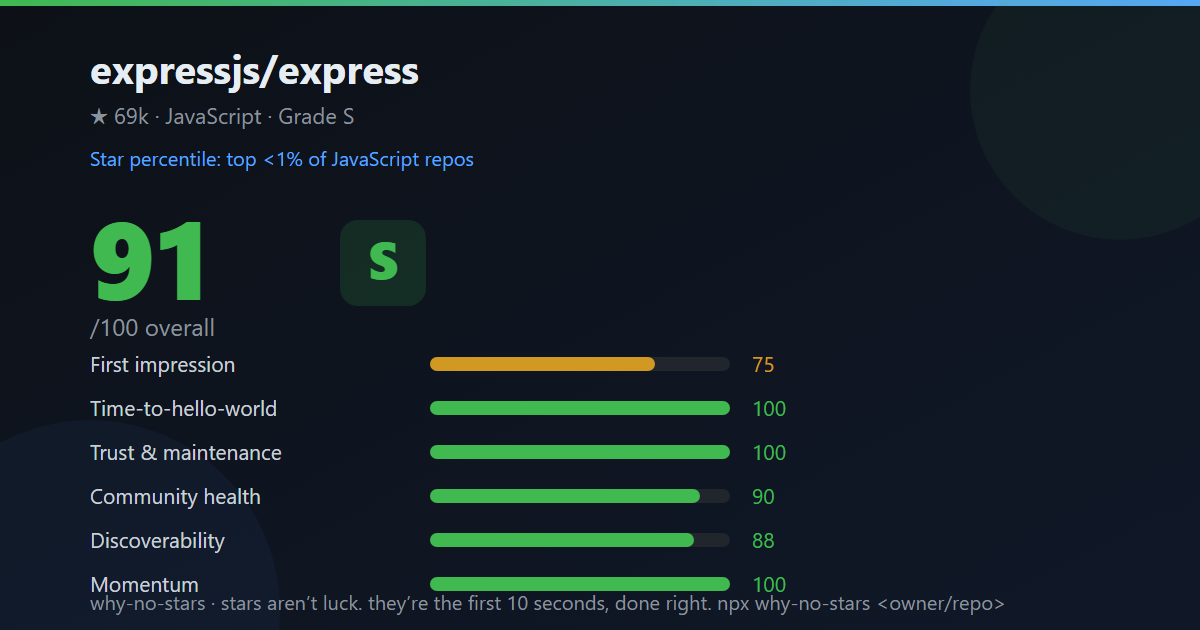
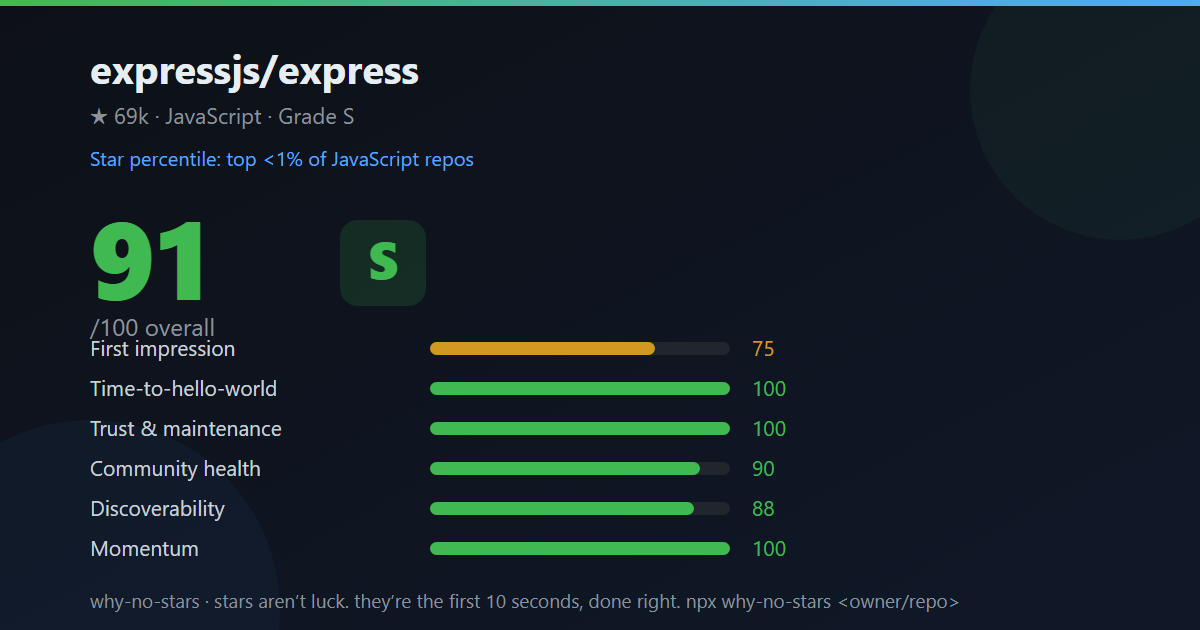
community health files: issue/PR templates, code of conduct (practice what we measure)

Changed region(s): [[0.0617, 0.5429, 0.8325, 0.9952], [0.6167, 0.7841, 0.6475, 0.8143]]

diff --git a/src/render/svg.js b/src/render/svg.js
@@ -36,9 +36,9 @@ export function renderSvg({ facts, scorecard, benchmark, locale }) {
   const FONT = 'Segoe UI, PingFang SC, Microsoft YaHei, sans-serif';
 
   // Vertical rhythm (baselines): name 84, meta 124, benchmark 166,
-  // big score 300, /100 336, grade chip 220-300, pillars 372..594, footer 610.
-  const pillarTop = 372;
-  const pillarStep = 44;
+  // big score 300, /100 336, grade chip 220-300, pillars 356..556, footer 608.
+  const pillarTop = 356;
+  const pillarStep = 40;
 
   const pillarRows = scorecard.pillars
     .filter((p) => p.score !== null)
@@ -49,8 +49,8 @@ export function renderSvg({ facts, scorecard, benchmark, locale }) {
       const c = colorFor(p.score);
       return `
     <text x="90" y="${y}" font-family="${FONT}" font-size="21" fill="#c9d1d9">${esc(T(p.name, locale))}</text>
-    <rect x="430" y="${y - 15}" width="${barW}" height="14" rx="7" fill="#21262d"/>
-    <rect x="430" y="${y - 15}" width="${fill.toFixed(1)}" height="14" rx="7" fill="${c}"/>
+    <rect x="430" y="${y - 14}" width="${barW}" height="13" rx="6.5" fill="#21262d"/>
+    <rect x="430" y="${y - 14}" width="${fill.toFixed(1)}" height="13" rx="6.5" fill="${c}"/>
     <text x="752" y="${y}" font-family="${FONT}" font-size="21" fill="${c}">${p.score}</text>`;
     })
     .join('');
@@ -96,7 +96,7 @@ export function renderSvg({ facts, scorecard, benchmark, locale }) {
 
   ${pillarRows}
 
-  <text x="90" y="610" font-family="${FONT}" font-size="20" fill="#8b949e">why-no-stars · ${zh ? 'star 不是玄学，是前 10 秒的功夫。' : 'stars aren’t luck. they’re the first 10 seconds, done right.'}   npx why-no-stars &lt;owner/repo&gt;</text>
+  <text x="90" y="608" font-family="${FONT}" font-size="19" fill="#8b949e">why-no-stars · ${zh ? 'star 不是玄学，是前 10 秒的功夫。' : 'stars aren’t luck. they’re the first 10 seconds, done right.'}   npx why-no-stars &lt;owner/repo&gt;</text>
 </svg>
 `;
 }

diff --git a/CODE_OF_CONDUCT.md b/CODE_OF_CONDUCT.md
@@ -1,0 +1,43 @@
+# Contributor Covenant Code of Conduct
+
+## Our Pledge
+
+We as members, contributors, and leaders pledge to make participation in our community a harassment-free experience for everyone, regardless of age, body size, visible or invisible disability, ethnicity, sex characteristics, gender identity and expression, level of experience, education, socio-economic status, nationality, personal appearance, race, religion, or sexual identity and orientation.
+
+We pledge to act and interact in ways that contribute to an open, welcoming, diverse, inclusive, and healthy community.
+
+## Our Standards
+
+Examples of behavior that contributes to a positive environment include:
+
+- Demonstrating empathy and kindness toward other people
+- Being respectful of differing opinions, viewpoints, and experiences
+- Giving and gracefully accepting constructive feedback
+- Accepting responsibility and apologizing to those affected by our mistakes, and learning from the experience
+- Focusing on what is best not just for us as individuals, but for the overall community
+
+Examples of unacceptable behavior include:
+
+- The use of sexualized language or imagery, and sexual attention or advances of any kind
+- Trolling, insulting or derogatory comments, and personal or political attacks
+- Public or private harassment
+- Publishing others' private information, such as a physical or email address, without their explicit permission
+- Other conduct which could reasonably be considered inappropriate in a professional setting
+
+## Enforcement Responsibilities
+
+Community leaders are responsible for clarifying and enforcing our standards of acceptable behavior and will take appropriate and fair corrective action in response to any behavior that they deem inappropriate, threatening, offensive, or harmful.
+
+## Scope
+
+This Code of Conduct applies within all community spaces, and also applies when an individual is officially representing the community in public spaces.
+
+## Enforcement
+
+Instances of abusive, harassing, or otherwise unacceptable behavior may be reported to the community leaders responsible for enforcement via the repository's issue tracker (open an issue and request private handling). All complaints will be reviewed and investigated promptly and fairly.
+
+All community leaders are obligated to respect the privacy and security of the reporter of any incident.
+
+## Attribution
+
+This Code of Conduct is adapted from the [Contributor Covenant](https://www.contributor-covenant.org), version 2.1, available at https://www.contributor-covenant.org/version/2/1/code_of_conduct.html.

diff --git a/.github/ISSUE_TEMPLATE/feature_request.md b/.github/ISSUE_TEMPLATE/feature_request.md
@@ -1,0 +1,19 @@
+---
+name: New check proposal / 新检查项提案
+about: Propose a signal that predicts whether a repo earns stars. / 提议一个能预测 star 增长的信号
+title: ''
+labels: enhancement, new-check
+assignees: ''
+---
+
+**Check name / 检查项名称**:
+
+**Which pillar / 属于哪个支柱**: First impression / Time-to-hello-world / Trust / Community / Discoverability / Momentum
+
+**The signal / 信号是什么**: what observable repo data does it look at?
+
+**Why it predicts stars / 为什么它能预测 star**: one concrete mechanism, not vibes.
+
+**Proposed statuses / 建议的状态逻辑**: when is it `pass` / `warn` / `fail` / `skip`?
+
+**Can you implement it? (~30 lines in src/checks/)** — see CONTRIBUTING.md. PRs welcome.

diff --git a/.github/ISSUE_TEMPLATE/bug_report.md b/.github/ISSUE_TEMPLATE/bug_report.md
@@ -1,0 +1,20 @@
+---
+name: Bug report / 错误报告
+about: A check gave wrong evidence, a wrong status, or the CLI crashed. / 检查结果有误或 CLI 报错
+title: ''
+labels: bug
+assignees: ''
+---
+
+**Repo audited / 被体检的仓库**: `owner/repo`
+**Command / 命令**: `wns owner/repo --zh`
+**Output / 输出** (paste the relevant checks or error):
+
+```
+(paste here)
+```
+
+**What's wrong / 哪里不对**: which check, what it claimed, what the repo actually shows.
+**Node version / Node 版本**: `node --version`
+
+> thanks for reporting — this tool is heuristics, and wrong findings are bugs.

diff --git a/.github/PULL_REQUEST_TEMPLATE.md b/.github/PULL_REQUEST_TEMPLATE.md
@@ -1,0 +1,12 @@
+<!-- What / Why / How tested — keep PRs small: one check or one coherent feature. -->
+
+## What does this PR change?
+
+## Why?
+
+## How was it tested?
+
+- [ ] `npm test` passes
+- [ ] Non-pass checks carry evidence in `detail`
+- [ ] Failing checks carry an actionable `fix`
+- [ ] Bilingual strings (`{ en, zh }`) provided (EN at minimum — someone will translate)
